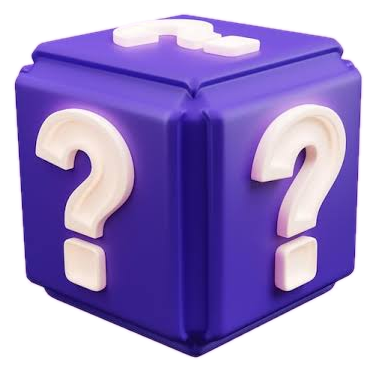
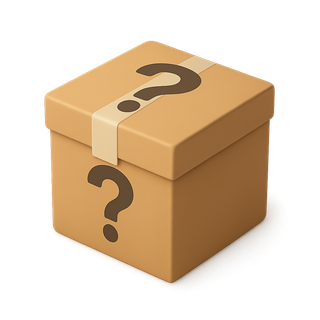
Restyle wheel to dark-neon look, swap in the new mystery box artwork
- Replace the purple mystery box with the user-supplied
  image-BUu3px...png (tan box with a built-in radial vignette). A
  flood-fill background removal wasn't viable here — the vignette
  blends smoothly into the box's own shading with no hard edge to cut
  along, and attempts ate into the box itself — so the vignette is
  kept as part of the tile artwork, downscaled from 1024px to a
  reasonable 320px for a repeated kiosk asset.
- Shrink the icon on each wedge (was oversized) and restyle the wheel
  to match the referenced dark-neon wheel UI: muted indigo/purple
  wedges, a glowing hollow pointer, glowing rim bulbs, and a glossy
  white center hub.

diff --git a/resources/js/Features/Wheel/SpinWheel.tsx b/resources/js/Features/Wheel/SpinWheel.tsx
@@ -1,12 +1,14 @@
 const SLOT_COUNT = 8;
 
-// Vivid alternating palette purely for visual appeal — every wedge shows the identical
-// mystery box image regardless of color, so color carries no information about the outcome.
-const COLORS = ['#7c3aed', '#db2777', '#2563eb', '#ea580c', '#16a34a', '#ca8a04', '#0891b2', '#dc2626'];
+// Muted dark-neon alternating palette (two tones) purely for visual appeal — every wedge
+// shows the identical mystery box image regardless of color, so color carries no
+// information about the outcome.
+const COLORS = ['#3b2f63', '#2a2550'];
 
 const CENTER = 100;
 const RADIUS = 94;
-const IMAGE_RADIUS = 58;
+const IMAGE_RADIUS = 60;
+const IMAGE_SIZE = 30;
 const BULB_RADIUS = 97;
 
 /** Point on the wheel at `angleDeg` clockwise from the 12 o'clock position. */
@@ -24,16 +26,22 @@ export default function SpinWheel({ rotation, spinning }: { rotation: number; sp
     const bulbs = Array.from({ length: 16 }, (_, i) => i);
 
     return (
-        <div className="relative mx-auto h-[min(80vw,520px)] w-[min(80vw,520px)]">
-            <div className="absolute inset-[-6%] -z-10 rounded-full bg-gradient-to-br from-amber-400 via-fuchsia-500 to-indigo-600 opacity-40 blur-2xl" />
+        <div className="relative mx-auto h-[min(80vw,480px)] w-[min(80vw,480px)]">
+            <div className="absolute inset-[-8%] -z-10 rounded-full bg-gradient-to-br from-fuchsia-600 via-purple-700 to-indigo-900 opacity-50 blur-2xl" />
 
             <div
-                className="absolute left-1/2 top-[-18px] z-20 h-12 w-12 -translate-x-1/2 drop-shadow-lg"
-                style={{ clipPath: 'polygon(50% 100%, 0 0, 100% 0)', background: 'linear-gradient(180deg,#fde047,#f59e0b)' }}
+                className="absolute left-1/2 top-[-20px] z-20 h-11 w-9 -translate-x-1/2"
+                style={{
+                    clipPath: 'polygon(50% 100%, 10% 0, 90% 0)',
+                    background: 'transparent',
+                    border: '3px solid #f0abfc',
+                    filter: 'drop-shadow(0 0 6px #e879f9) drop-shadow(0 0 12px #c026d3)',
+                }}
             />
 
             <svg viewBox="0 0 200 200" className="h-full w-full overflow-visible rounded-full shadow-2xl">
-                <circle cx={CENTER} cy={CENTER} r={RADIUS + 5} fill="#1e1b4b" />
+                <circle cx={CENTER} cy={CENTER} r={RADIUS + 6} fill="#120f26" />
+                <circle cx={CENTER} cy={CENTER} r={RADIUS + 6} fill="none" stroke="#f0abfc" strokeWidth={0.6} opacity={0.5} />
 
                 {bulbs.map((i) => {
                     const angle = i * (360 / bulbs.length);
@@ -43,8 +51,9 @@ export default function SpinWheel({ rotation, spinning }: { rotation: number; sp
                             key={`bulb-${i}`}
                             cx={x}
                             cy={y}
-                            r={2.6}
-                            fill={i % 2 === 0 ? '#fde047' : '#fff7ed'}
+                            r={2.2}
+                            fill="#fdf4ff"
+                            style={{ filter: 'drop-shadow(0 0 3px #f0abfc)' }}
                             className={spinning ? 'animate-pulse' : ''}
                         />
                     );
@@ -61,7 +70,7 @@ export default function SpinWheel({ rotation, spinning }: { rotation: number; sp
                         const start = polar(RADIUS, i * segmentAngle);
                         const end = polar(RADIUS, (i + 1) * segmentAngle);
                         const d = `M ${CENTER} ${CENTER} L ${start.x} ${start.y} A ${RADIUS} ${RADIUS} 0 0 1 ${end.x} ${end.y} Z`;
-                        return <path key={i} d={d} fill={COLORS[i % COLORS.length]} stroke="#1e1b4b" strokeWidth={1.5} />;
+                        return <path key={i} d={d} fill={COLORS[i % COLORS.length]} stroke="#1a1533" strokeWidth={1} />;
                     })}
                     {slots.map((i) => {
                         const mid = i * segmentAngle + segmentAngle / 2;
@@ -70,18 +79,18 @@ export default function SpinWheel({ rotation, spinning }: { rotation: number; sp
                             <image
                                 key={`img-${i}`}
                                 href="/images/wheel/mystery-box.png"
-                                x={x - 22}
-                                y={y - 22}
-                                width={44}
-                                height={44}
-                                style={{ filter: 'drop-shadow(0 2px 3px rgba(0,0,0,0.5))' }}
+                                x={x - IMAGE_SIZE / 2}
+                                y={y - IMAGE_SIZE / 2}
+                                width={IMAGE_SIZE}
+                                height={IMAGE_SIZE}
+                                style={{ filter: 'drop-shadow(0 2px 3px rgba(0,0,0,0.6))' }}
                             />
                         );
                     })}
                 </g>
             </svg>
 
-            <div className="absolute inset-0 m-auto flex h-20 w-20 items-center justify-center rounded-full border-4 border-amber-400 bg-gradient-to-br from-indigo-700 to-fuchsia-700 text-sm font-black text-amber-300 shadow-lg">
+            <div className="absolute inset-0 m-auto flex h-[22%] w-[22%] items-center justify-center rounded-full bg-gradient-to-b from-white to-slate-200 text-sm font-black text-indigo-900 shadow-[0_0_20px_rgba(240,171,252,0.6)]">
                 SPIN
             </div>
         </div>
